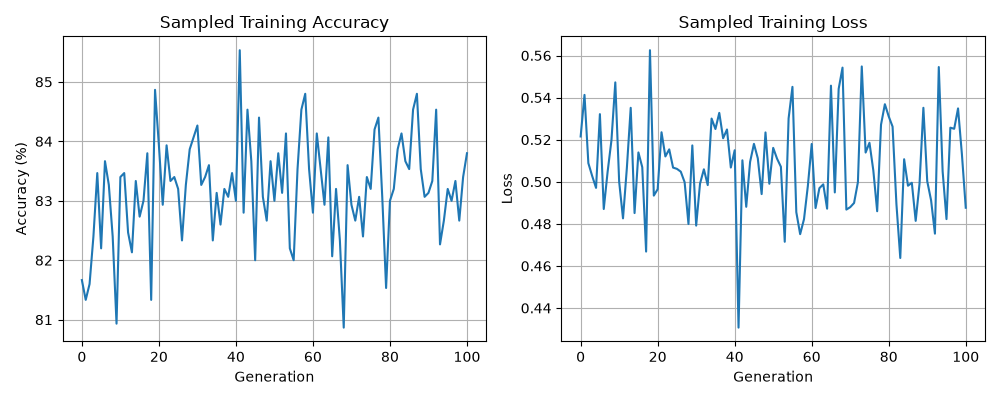
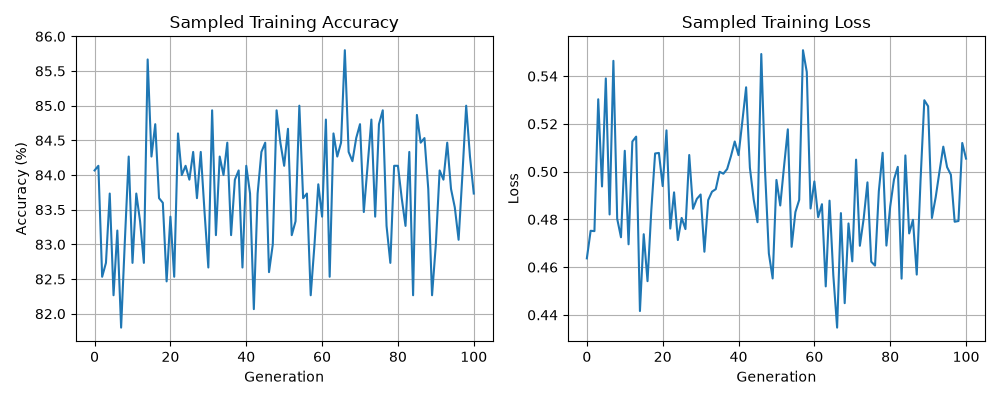
GAの優位性を確認したい

diff --git a/scripts/contenue_binarizeconnect_cifar10.py b/scripts/contenue_binarizeconnect_cifar10.py
@@ -176,17 +176,17 @@ def plot(train_losses, test_accuracies):
 
 def main():
 
-    random_seed = 42
+    random_seed = 43
     epochs = 50
     batch_size = 64
-    learning_rate = 0.001
+    learning_rate = 0.0001
     torch.manual_seed(random_seed)
 
     device = torch.device('cuda' if torch.cuda.is_available() else 'cpu') # デバイス判定
     print(f"使用デバイス: {device}")
 
     # 事前学習の重みを読み込む
-    load_path = './output/binaryconnect_cifar_aug_3conv_bp_seed42.pt'
+    load_path = './output/binaryconnect_cifar_aug_3conv_bp_seed42_500ep.pt'
     checkpoint = torch.load(load_path, map_location='cpu', weights_only=True)
     model = BinaryConnectCifar10().to(device)
     model.load_state_dict(checkpoint['model_state_dict'])

diff --git a/scripts/ga_cifar10.py b/scripts/ga_cifar10.py
@@ -68,7 +68,7 @@ def genetic_algorithm(model, dataset, train_indices,  device, eval_size=1500):
     generations = 100
     migration_interval = 10
     mutation_rate = 0.0001
-    random_seed = 44
+    random_seed = 43
 
     torch.manual_seed(random_seed)
     np.random.seed (random_seed)
@@ -226,7 +226,7 @@ def main():
     print(f"使用デバイス: {device}")
 
     # BPの学習済みモデルを読み込む
-    load_path = './output/binaryconnect_cifar_aug_3conv_bp_seed42.pt'
+    load_path = './output/binaryconnect_cifar_aug_3conv_bp_seed42_500ep.pt'
     checkpoint = torch.load(load_path, map_location='cpu', weights_only=True)
     model = BinaryConnectCifar10().to(device)
     model.load_state_dict(checkpoint['model_state_dict'])

diff --git a/scripts/binaryconnect_cifar10.py b/scripts/binaryconnect_cifar10.py
@@ -176,7 +176,7 @@ def plot(train_losses, test_accuracies):
 
 def main():
 
-   random_seed = 42
+    random_seed = 42
     epochs = 500
     batch_size = 64
     learning_rate = 0.001
